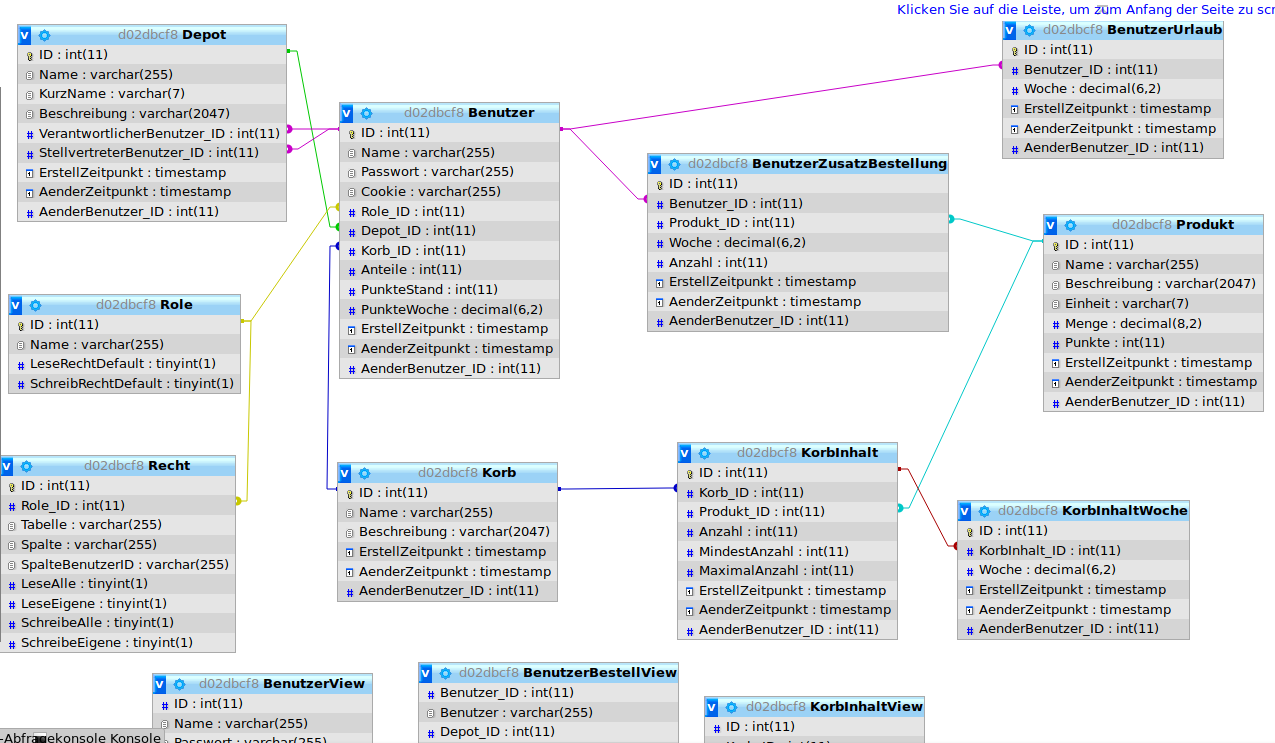
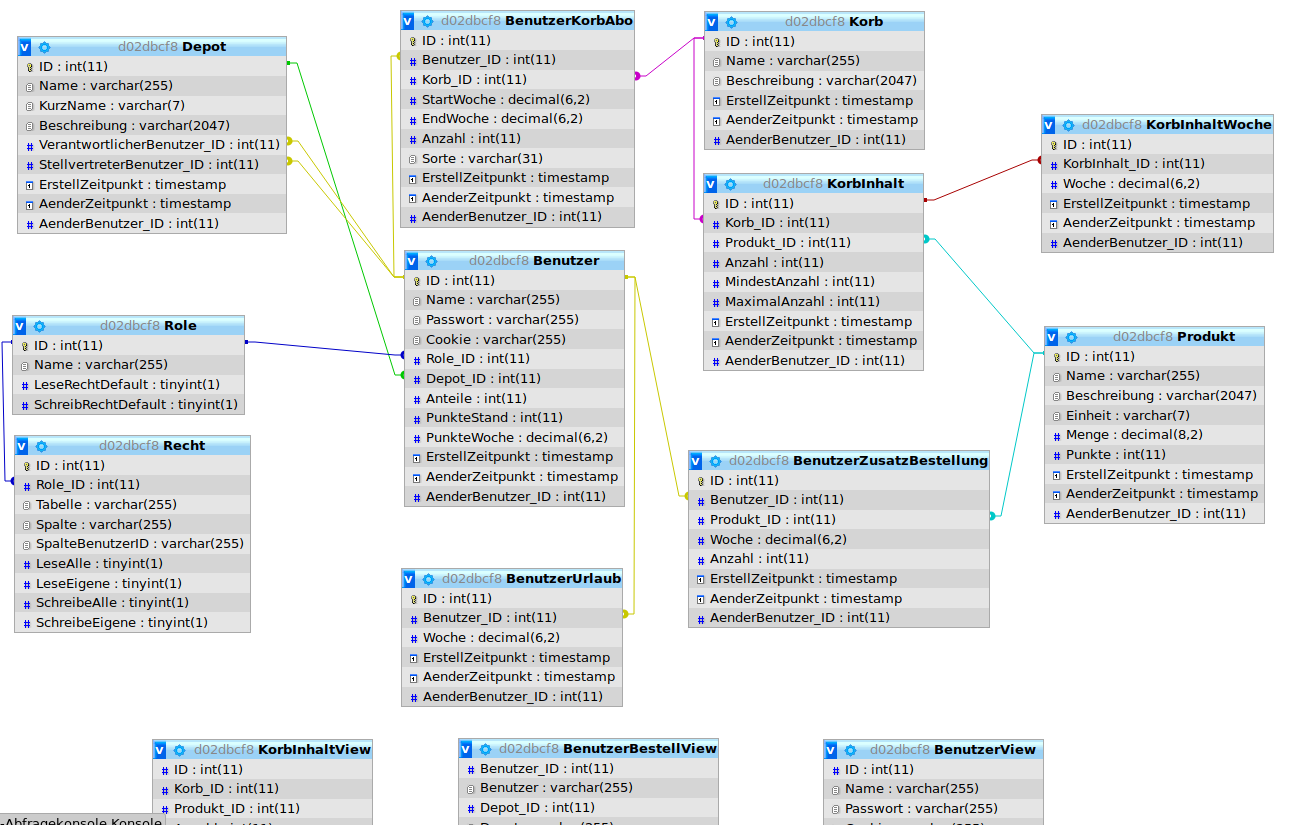
add benutzerKorbAbo table

diff --git a/admin.htm b/admin.htm
@@ -14,7 +14,7 @@
 // sbs = global variable prefix for SolawiBestellSystem
 var sbsUser;
 var sbsWeek;
-var sbsTableCache = {};
+var sbsTableCache = {'Korb':[],'Role':[],'Depot':[],'Produkt':[]};
 
 //check login status
 getAjax('Benutzer/OWN', function(userResponse){
@@ -26,6 +26,13 @@ getAjax('Benutzer/OWN', function(userResponse){
 		hide('logoutbtn');
 	} 
 });
+	
+fillCache('Korb');
+fillCache('Role');
+fillCache('Depot');
+fillCache('Produkt');
+fillCache('Benutzer');
+
 </script>
 
 	
@@ -58,20 +65,28 @@ getAjax('Benutzer/OWN', function(userResponse){
 	
 	
 <div id="tableContainer">
+		<div style="width: 90%">
+		Show: 
+		<button onclick="clearContent('tableEdit');getAjax('KorbInhaltView', showTable);">KorbInhaltView</button>
+		<button onclick="clearContent('tableEdit');getAjax('BenutzerBestellView', showTable);">BenutzerBestellView</button>
+		&#160; | &#160;
+		Edit:
+		<span style="display:inline-block;max-width: 60%;vertical-align: top;">
+			<button onclick="clearContent('table');getAjax('Benutzer', showTableEditor);">Benutzer</button>
+			<button onclick="clearContent('table');getAjax('BenutzerKorbAbo', showTableEditor);">BenutzerKorbAbo</button>
+			<button onclick="clearContent('table');getAjax('BenutzerUrlaub', showTableEditor);">BenutzerUrlaub</button>
+			<button onclick="clearContent('table');getAjax('Depot', showTableEditor);">Depot</button>
+			<button onclick="clearContent('table');getAjax('Korb', showTableEditor);">Korb</button>
+			<button onclick="clearContent('table');getAjax('KorbInhalt', showTableEditor);">KorbInhalt</button>
+			<button onclick="clearContent('table');getAjax('KorbInhaltWoche', showTableEditor);">KorbInhaltWoche</button>
+			<button onclick="clearContent('table');getAjax('Produkt', showTableEditor);">Produkt</button>
+			<button onclick="clearContent('table');getAjax('BenutzerZusatzBestellung', showTableEditor);">BenutzerZusatzBestellung</button>
+		</span>
+	</div>
 
-	<button onclick="getAjax('Benutzer', showTableEditor);">Benutzer</button>
-	<button onclick="getAjax('BenutzerUrlaub', showTableEditor);">BenutzerUrlaub</button>
-	<button onclick="getAjax('Depot', showTableEditor);">Depot</button>
-	<button onclick="getAjax('Korb', showTableEditor);">Korb</button>
-	<button onclick="getAjax('KorbInhalt', showTableEditor);">KorbInhalt</button>
-	<button onclick="getAjax('KorbInhaltWoche', showTableEditor);">KorbInhaltWoche</button>
-	<button onclick="getAjax('Produkt', showTableEditor);">Produkt</button>
-	<button onclick="getAjax('ZusatzBestellung', showTableEditor);">ZusatzBestellung</button>
-
-	<table id="tableEdit" cellspacing="0" > </table>
+	<br/>
 	
-	<br/>
-	<br/>
+	<table id="tableEdit" cellspacing="0" > </table>
 	
 	<table id="table" cellspacing="0" > </table>
 

diff --git a/util.js b/util.js
@@ -49,7 +49,16 @@ function setContent(id, text) {
 	var ele = document.getElementById(id);
 	if (ele) ele.innerText=text;
 }
-
+function clearContent(id) {
+	if (id == 'table') {
+		window.sbsViewTablePath = '';
+	} else if (id == 'tableEdit') {
+		window.sbsEditTablePath = '';
+		window.sbsEditTable = '';
+	}
+	var ele = document.getElementById(id);
+	ele.innerHTML = '';
+}
 
 // This script is released to the public domain and may be used, modified and
 // distributed without restrictions. Attribution not necessary but appreciated.

diff --git a/table.js b/table.js
@@ -202,3 +202,12 @@ function saveEditorInputs(event2) {
 		hide('blockui_edit');
 	}
 }
+
+function fillCache(tableName) {
+	getAjax(tableName, function(resp) { 
+		sbsTableCache[tableName] = []; 
+		for(var i = 0; i < resp.length; i++) {
+			sbsTableCache[tableName][resp[i]['ID']] = resp[i]; 
+		}
+	});
+}
